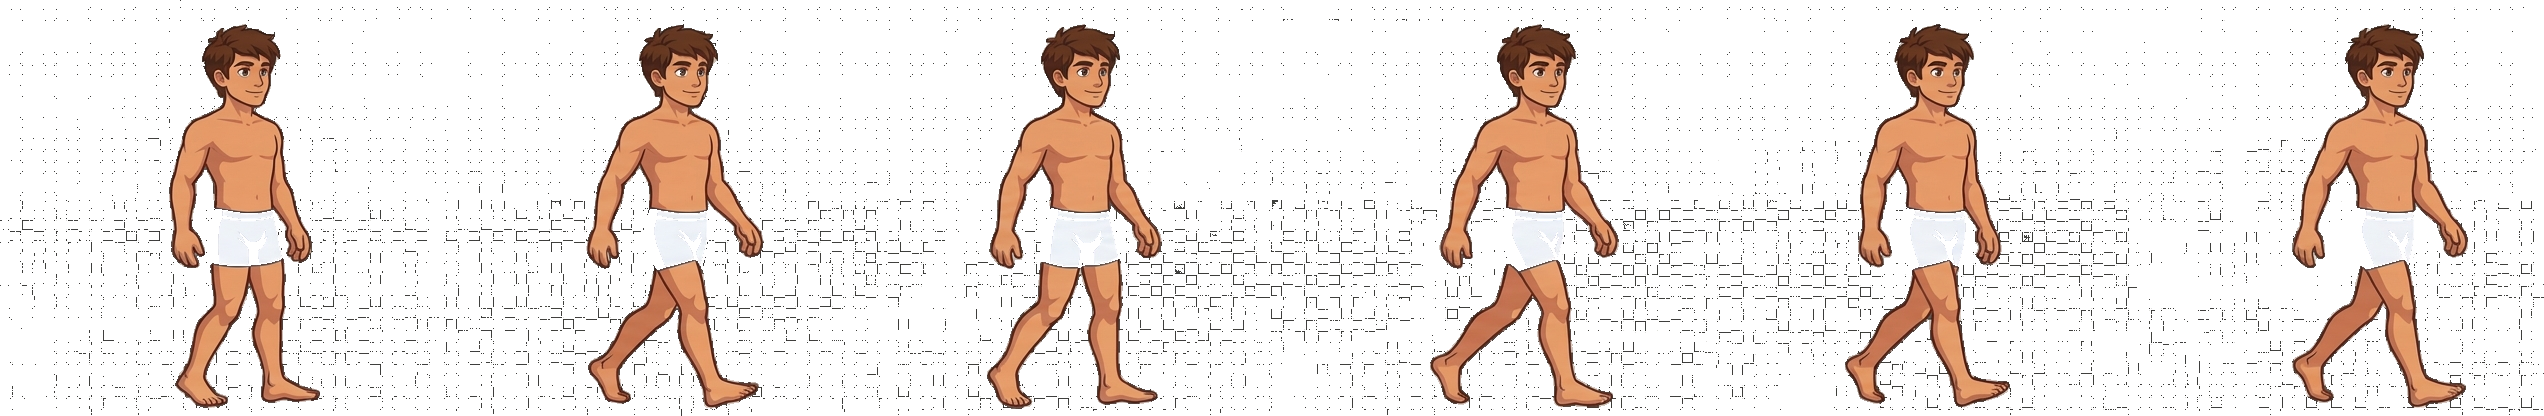
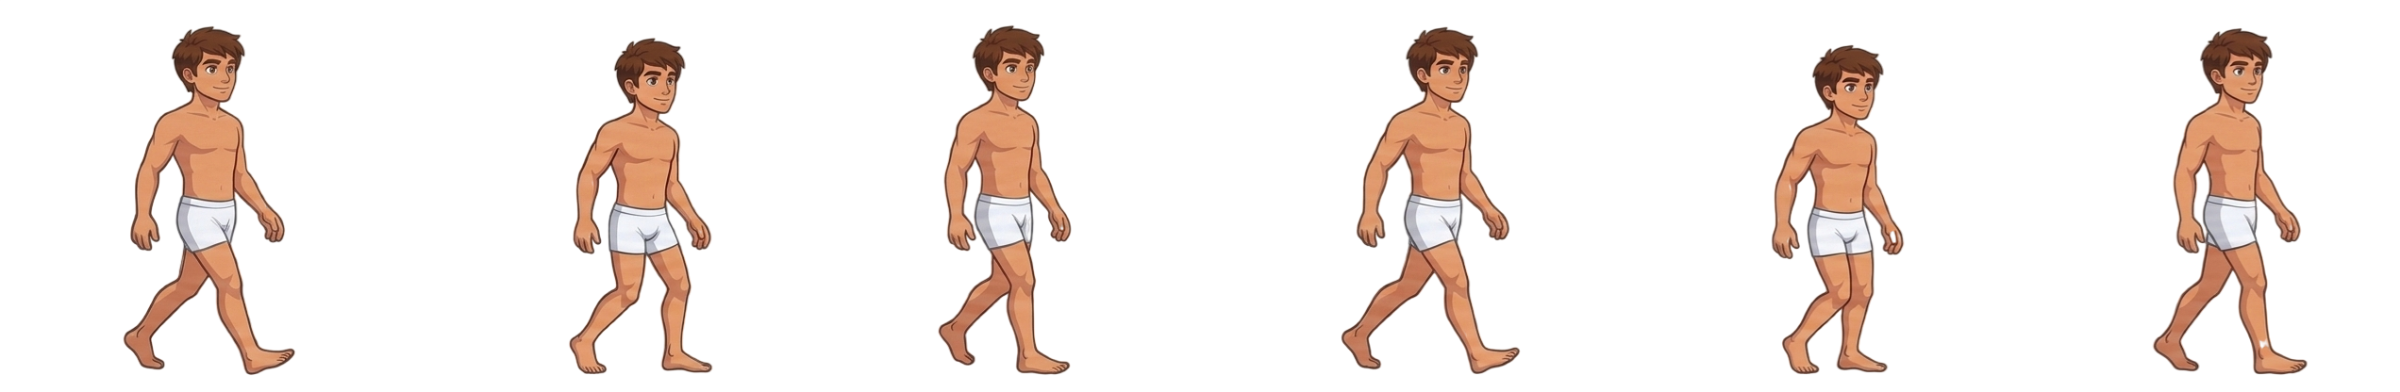
animations

Changed region(s): [[0.0, 0.0612, 0.8438, 0.9796], [0.875, 0.0612, 1.0, 0.9796], [0.9688, 0.9796, 1.0, 1.0]]

diff --git a/client/src/game/character/ensureCharacterTextures.ts b/client/src/game/character/ensureCharacterTextures.ts
@@ -246,6 +246,9 @@ function ensureImageTexture(scene: Phaser.Scene, key: string, path: string): voi
 
   const image = new Image();
   image.onload = (): void => {
+    if (!scene.sys?.renderer || !scene.textures || scene.textures.exists(key)) {
+      return;
+    }
     scene.textures.addImage(key, image);
   };
   image.onerror = (): void => {
@@ -254,28 +257,8 @@ function ensureImageTexture(scene: Phaser.Scene, key: string, path: string): voi
   image.src = path;
 }
 
-function ensureSpriteSheet(scene: Phaser.Scene, key: string, path: string, frameWidth: number, frameHeight: number, endFrame: number): void {
-  if (scene.textures.exists(key)) {
-    return;
-  }
-
-  const image = new Image();
-  image.onload = (): void => {
-    scene.textures.addSpriteSheet(key, image, {
-      frameWidth,
-      frameHeight,
-      endFrame,
-    });
-  };
-  image.onerror = (): void => {
-    console.warn(`Failed to load sprite sheet: ${path}`);
-  };
-  image.src = path;
-}
-
 export function ensureCharacterTextures(scene: Phaser.Scene): void {
   ensureImageTexture(scene, 'player-base-body', '/assets/characters/player/body/base_body.png');
-  ensureSpriteSheet(scene, 'player-walk-sprite', '/assets/characters/player/body/walking.png', 508, 416, 4);
   generateTexture(scene, 'character-body-base', 96, 96, drawBody);
   generateTexture(scene, 'character-torso-base', 96, 96, drawTorso);
   generateTexture(scene, 'character-head-base', 96, 96, drawHead);

diff --git a/client/src/game/character/ensureCharacterTextures.js b/client/src/game/character/ensureCharacterTextures.js
@@ -219,6 +219,9 @@ function ensureImageTexture(scene, key, path) {
     }
     const image = new Image();
     image.onload = () => {
+        if (!scene.sys?.renderer || !scene.textures || scene.textures.exists(key)) {
+            return;
+        }
         scene.textures.addImage(key, image);
     };
     image.onerror = () => {
@@ -226,26 +229,8 @@ function ensureImageTexture(scene, key, path) {
     };
     image.src = path;
 }
-function ensureSpriteSheet(scene, key, path, frameWidth, frameHeight, endFrame) {
-    if (scene.textures.exists(key)) {
-        return;
-    }
-    const image = new Image();
-    image.onload = () => {
-        scene.textures.addSpriteSheet(key, image, {
-            frameWidth,
-            frameHeight,
-            endFrame,
-        });
-    };
-    image.onerror = () => {
-        console.warn(`Failed to load sprite sheet: ${path}`);
-    };
-    image.src = path;
-}
 export function ensureCharacterTextures(scene) {
     ensureImageTexture(scene, 'player-base-body', '/assets/characters/player/body/base_body.png');
-    ensureSpriteSheet(scene, 'player-walk-sprite', '/assets/characters/player/body/walking.png', 508, 416, 4);
     generateTexture(scene, 'character-body-base', 96, 96, drawBody);
     generateTexture(scene, 'character-torso-base', 96, 96, drawTorso);
     generateTexture(scene, 'character-head-base', 96, 96, drawHead);

diff --git a/client/src/game/character/CharacterRenderer.js b/client/src/game/character/CharacterRenderer.js
@@ -341,14 +341,8 @@ export class CharacterRenderer {
             face.setScale(this.animationState === 'death' ? 0.98 : this.animationState === 'jump' ? 0.96 : 1);
         }
         if (body) {
-            if (this.animationState === 'walk') {
-                body.setTexture('player-walk-sprite', Math.floor(time / 80) % 5);
-                body.setDisplaySize(220, 220);
-            }
-            else {
-                body.setTexture('player-base-body');
-                body.setDisplaySize(36, 36);
-            }
+            body.setTexture('player-base-body');
+            body.setDisplaySize(36, 36);
         }
         this.expression = nextExpression;
         this.container.y = this.baseY + yOffset;

diff --git a/client/src/game/character/CharacterRenderer.ts b/client/src/game/character/CharacterRenderer.ts
@@ -421,13 +421,8 @@ export class CharacterRenderer {
     }
 
     if (body) {
-      if (this.animationState === 'walk') {
-        body.setTexture('player-walk-sprite', Math.floor(time / 80) % 5);
-        body.setDisplaySize(220, 220);
-      } else {
-        body.setTexture('player-base-body');
-        body.setDisplaySize(36, 36);
-      }
+      body.setTexture('player-base-body');
+      body.setDisplaySize(36, 36);
     }
 
     this.expression = nextExpression;

diff --git a/client/src/game/entities/Player.js b/client/src/game/entities/Player.js
@@ -25,7 +25,7 @@ export class Player extends Phaser.Physics.Arcade.Sprite {
         this.character = character;
         this.finalStats = finalStats;
         this.characterRenderer = new CharacterRenderer(scene, character, x, y - 28);
-        this.characterRenderer.setScale(1.0);
+        this.characterRenderer.setScale(8);
         this.setDepth(20);
         this.setCollideWorldBounds(true);
         this.setScale(1.2);
